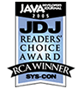
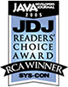
940

diff --git a/public/styles/styles.min.css b/public/styles/styles.min.css
@@ -1,1 +1,1 @@
-.ej-btn,.ej-btn:hover{color:#fff}@font-face{font-family:proxima_nova_semibold;src:url(../fonts/proximanova-sbold-webfont.eot);src:url(../fonts/proximanova-sbold-webfont.eot?#iefix) format("embedded-opentype"),url(../fonts/proximanova-sbold-webfont.woff2) format("woff2"),url(../fonts/proximanova-sbold-webfont.woff) format("woff"),url(../fonts/proximanova-sbold-webfont.ttf) format("truetype"),url(../fonts/proximanova-sbold-webfont.svg#proxima_novasemibold) format("svg");font-weight:400;font-style:normal;font-variant:normal}@font-face{font-family:icomoon;src:url(../fonts/icomoon.eot?4pjks7);src:url(../fonts/icomoon.eot?#iefix4pjks7) format("embedded-opentype"),url(../fonts/icomoon.ttf?4pjks7) format("truetype"),url(../fonts/icomoon.woff?4pjks7) format("woff"),url(../fonts/icomoon.svg?4pjks7#icomoon) format("svg");font-weight:400;font-style:normal}[class*=" icon-"],[class^=icon-]{font-family:icomoon;speak:none;font-style:normal;font-weight:400;font-variant:normal;text-transform:none;line-height:1;-webkit-font-smoothing:antialiased;-moz-osx-font-smoothing:grayscale}.ej-btn,.ej-link,.footer-menu a{font-family:proxima_nova_semibold}.icon-download:before{content:"\e600"}.icon-see_more:before{content:"\e601"}.site-padding{padding:45px 0}.site-padding-top{padding-top:45px}.site-padding-bottom{padding-bottom:45px}.ej-btn{text-transform:uppercase;display:inline-block;border-radius:25px;padding:0 17px;line-height:31px;font-size:13px}.ej-btn.btn-primary{background-color:#0993e2}.ej-btn.btn-primary:hover{background-color:#085c8c}.ej-link{text-transform:uppercase;font-size:12px}.ej-link.link-1{color:#0993e2}.ej-link.link-1:hover{color:#097abb}.show-m,.show-s,.show-xl,.show-xs{display:none}@media (min-width:1200px){.hide-xl{display:none!important}.show-xl{display:block}}@media (min-width:993px) and (max-width:1200px){.hide-m{display:none!important}.show-m{display:block}}@media (min-width:768px) and (max-width:992px){.hide-s{display:none!important}.show-s{display:block}}@media (max-width:767px){.hide-xs{display:none!important}.show-xs{display:block}}.navigation{height:79px;background-color:#fff}.navigation .logo{float:left;margin-top:24px}.navigation .main-navigation{float:right;margin:0}.navigation .menu-toggler{float:right;height:79px;line-height:79px}.main-navigation>li{float:left;position:relative}.main-navigation>li>a,.main-navigation>li>span{display:block;padding:0 17px;color:#303030;font-size:13px;border-top:6px solid #fff;font-family:proxima_nova_semibold;height:79px;line-height:73px;text-transform:uppercase;cursor:pointer}.main-navigation>li>a .fa,.main-navigation>li>span .fa{font-size:12px}.main-navigation>li>a .fa-caret-up,.main-navigation>li>span .fa-caret-up{display:inline-block}.main-navigation>li>a .fa-caret-down,.main-navigation>li>a.collapsed .fa-caret-up,.main-navigation>li>span .fa-caret-down,.main-navigation>li>span.collapsed .fa-caret-up{display:none}.main-navigation>li>a.collapsed .fa-caret-down,.main-navigation>li>span.collapsed .fa-caret-down{display:inline-block}.main-navigation>li>a:hover,.main-navigation>li>span:hover{color:#0993e2}.main-navigation>li.active a{border-top-color:#0993e2;color:#0993e2}.main-navigation .sub-menu{background-color:#fff;position:absolute;width:100%;left:0;top:79px;z-index:10}.main-navigation .sub-menu li a{display:block;padding:0 17px;color:#303030;font-size:13px;cursor:pointer;height:38px;line-height:38px}.main-navigation .sub-menu li a:hover{background-color:#0993e2;color:#fff}.menu-toggler{cursor:pointer;font-size:25px;color:#0993e2;background:0 0;border:none}.menu-toggler:hover{color:#097abb}.nav-mobile .nav-mobile-header{height:79px;margin-bottom:35px}.nav-mobile .nav-mobile-header .logo{margin-top:24px;float:left}.nav-mobile .nav-mobile-header .back{height:79px;line-height:79px;float:right;color:#fff;cursor:pointer;font-size:23px}.nav-mobile .nav-mobile-menu{margin:0;text-align:center}.nav-mobile .nav-mobile-menu>li>a,.nav-mobile .nav-mobile-menu>li>span{display:block;font-size:17px;color:#fff;text-transform:uppercase;line-height:55px;cursor:pointer}.nav-mobile .nav-mobile-menu>li>a .fa-caret-up,.nav-mobile .nav-mobile-menu>li>span .fa-caret-up{display:inline-block}.nav-mobile .nav-mobile-menu>li>a .fa-caret-down,.nav-mobile .nav-mobile-menu>li>a.collapsed .fa-caret-up,.nav-mobile .nav-mobile-menu>li>span .fa-caret-down,.nav-mobile .nav-mobile-menu>li>span.collapsed .fa-caret-up{display:none}.nav-mobile .nav-mobile-menu>li>a.collapsed .fa-caret-down,.nav-mobile .nav-mobile-menu>li>span.collapsed .fa-caret-down{display:inline-block}.nav-mobile .sub-menu li a{display:block;font-size:17px;color:#fff;line-height:55px;cursor:pointer;text-transform:none}.footer-menu a,.header h4,.site-subtitle,.site-title,.site-title-line{text-transform:uppercase}.modal-menu .modal-dialog{width:100%;margin:0}.modal-backdrop{background-color:#0993e2}.modal-backdrop.in{opacity:.95}.sub-nav{margin:0}.sub-nav li{float:left;margin:0 5px}.sub-nav li:first-of-type{margin-left:0}.sub-nav li:last-of-type{margin-right:0}.sub-nav li.active a{background-color:#085c8c}#footer{height:107px}.footer{background-color:#eef3f5;font-size:11px;color:#9ba4a8;overflow:hidden}.footer .top{padding:20px 0;border-bottom:1px solid #e3e8ea}.footer .top .logo{float:left}@media (max-width:767px){#footer{height:250px}.footer .top .logo{float:none;padding-bottom:20px;margin-bottom:20px;border-bottom:1px solid #e3e8ea;text-align:center}.footer .top .logo a{margin:0 auto}}.footer .top .footer-menu{float:right}.footer .bottom{padding:11px 0;line-height:18px}@media (max-width:767px){.footer .top .footer-menu{float:none;text-align:center}.footer .bottom{padding:20px 0}}.footer .bottom .copy{float:left}@media (max-width:767px){.footer .bottom .copy{float:none;padding-bottom:20px;margin-bottom:20px;border-bottom:1px solid #e3e8ea;text-align:center}}.footer .bottom .designed-by{float:right}@media (max-width:767px){.footer .bottom .designed-by{float:none;width:175px;margin:0 auto}}.footer .bottom .designed-by span{float:left;margin-right:10px}.footer .bottom .designed-by .logo{float:left}.footer-menu>*{line-height:25px;display:inline-block}.footer-menu a{color:#0993e2}.footer-menu a:hover{color:#097abb}.footer-menu span{color:#c7c8c9;margin:0 15px}@media (min-width:768px) and (max-width:992px),(max-width:767px){.sidebar{margin-bottom:45px}}.sidebar .widget{margin-bottom:23px}.sidebar .widget:last-of-type{margin-bottom:0}.sidebar.inner .site-title{background:url(../images/sep-5.png) 0 100% no-repeat;padding-bottom:18px;margin-bottom:19px}.sidebar.inner .site-title .fa{color:#9ba4a8;font-size:16px;margin-right:4px}.sidebar.inner .site-title span{display:inline;float:none}.widget{border-bottom:1px solid #e5e5e5;padding:14px 0}.widget.award{border:1px solid #e5e5e5;padding:14px 10px}.widget.award .img-wrapper{width:75px;text-align:center;float:left;margin-right:15px}.widget.award .text h6{font-family:Lucida Grande,Lucida Sans Unicode,Lucida Sans,Geneva,Verdana,sans-serif;font-weight:700;color:#303030;margin-bottom:15px}.widget.versions{padding-top:0}.widget.versions .version-item{margin-bottom:27px}.widget.versions .version-item:last-of-type{padding-bottom:0;border-bottom:none;margin-bottom:0}.home-header{background:url(../images/bg-header-home.png) repeat-x;height:556px}.home-header .header-product{height:556px;padding-top:95px;position:relative}.home-header .header-product .meta{position:absolute;width:100%;left:0;bottom:45px}.version{background:url(../images/bg-version.png) no-repeat;width:43px;height:42px;line-height:37px;padding-left:3px;color:#fff;text-align:center;font-size:14px;display:inline-block}.header-product{text-align:center}.header-product .img-wrapper{margin-bottom:25px;position:relative}.header-product .img-wrapper .version{position:absolute;margin-right:-75px;right:50%}.header-product h4{font-size:23px;color:#fff;background:url(../images/sep-1.png) 50% 100% no-repeat;padding-bottom:10px;margin-bottom:15px}.header-product p{font-size:15px;line-height:22px;color:#fff;margin:0}@media (min-width:768px) and (max-width:992px){.header-product p br{display:none}}.header-product .meta{font-family:proxima_nova_semibold;background:url(../images/sep-2.png) 50% 50% no-repeat;min-height:76px;margin:45px 0 0}.header-product .meta li{float:left;width:50%}.header-product .meta li a{font-size:11px;text-transform:uppercase;color:#fff;padding-top:20px;line-height:normal;height:105px;width:105px;text-align:center;display:inline-block;border:3px solid transparent;background-color:transparent;border-radius:100%}@media (min-width:768px) and (max-width:992px){.header-product .meta li a{padding-top:15px;height:85px;width:85px}}.header-product .meta li a span{display:block;font-size:30px}.header-product .meta li a:hover{height:105px;width:105px;text-align:center;display:inline-block;border:3px solid #84c7ff;background-color:#fff;border-radius:100%;color:#23cf3b}.news-wrapper .title h6,body{color:#303030;font-family:Lucida Grande,Lucida Sans Unicode,Lucida Sans,Geneva,Verdana,sans-serif}@media (min-width:768px) and (max-width:992px){.header-product .meta li a:hover{height:85px;width:85px}}.news-wrapper{padding-bottom:45px}.news-wrapper .title{line-height:normal;margin-bottom:20px}.news-wrapper .title h6{font-weight:700;margin:0}.news-wrapper p{margin:0}.news-wrapper .ej-link{display:block;margin-top:25px}.products-home-slider .owl-controls{position:absolute;width:100%;left:0;top:240px;margin:0}.products-home-slider .owl-controls .owl-buttons>div{width:54px;height:51px;margin:0;background:0 0;padding:0;border-radius:0;opacity:.2}.products-home-slider .owl-controls .owl-buttons>div:hover{opacity:.4!important}.products-home-slider .owl-controls .owl-buttons>div.owl-prev{background:url(../images/arrow-left.png) no-repeat;float:left;margin-left:-15px}.products-home-slider .owl-controls .owl-buttons>div.owl-next{background:url(../images/arrow-right.png) no-repeat;float:right;margin-right:-15px}.news-slider .owl-controls{margin-bottom:45px}.owl-controls .owl-pagination .owl-page span{margin:0 6px;height:13px;width:13px;border:1px solid #bbb;background-color:#fff}.owl-controls .owl-pagination .owl-page.active span{border-color:#0993e2;background-color:#0993e2}body{font-size:12px;line-height:18px}body,html{height:100%}h1,h2,h3,h4,h5,h6{font-family:proxima_nova_semibold;margin-top:0;line-height:normal}.detail h6,.version-item .text-wrapper h6{font-family:Lucida Grande,Lucida Sans Unicode,Lucida Sans,Geneva,Verdana,sans-serif;font-weight:700}a{color:#0993e2}a:active,a:focus,a:hover,a:link a:visited{outline:0;text-decoration:none}a:hover{color:#097abb}.page-wrap{min-height:100%;margin-bottom:-107px}.page-wrap:after{content:"";display:block;height:107px}@media (max-width:767px){.news-wrapper{padding-bottom:0}.page-wrap{margin-bottom:-250px}.page-wrap:after{height:250px}}.logo{margin:0}.logo a{background:url(../images/logo.png) no-repeat;display:block;text-indent:-9999px;width:188px;height:31px}.logo.gray a{background:url(../images/logo-gray.png) no-repeat;width:158px;height:25px}.logo.xubliminal a{background:url(../images/logo-xub.png) no-repeat;width:97px;height:18px}.logo.white a{background:url(../images/logo-white.png) no-repeat}.header{background-color:#0993e2;padding:24px 0}.header h4{margin:0;font-size:17px;color:#fff;line-height:31px;float:left}.header .sub-nav{float:right}.content{padding:45px 0;font-size:13px;line-height:21px}.site-title{background:url(../images/sep-3.png) 0 50% repeat-x;margin-bottom:35px;overflow:hidden}.site-title span{background-color:#fff;display:block;height:100%;padding-right:18px;float:left}.site-title-line{background:url(../images/sep-4.png) 0 100% no-repeat;padding-bottom:20px}.content-section{border-bottom:1px solid #f0f0f0;padding-bottom:30px;margin-bottom:30px}.content-section:last-of-type{padding-bottom:0;border-bottom:none;margin-bottom:0}.content-section .site-title-line{margin-bottom:30px}.content-section .site-subtitle{margin-bottom:20px}.content-section p{margin:0}.site-subtitle{color:#0993e2}.double-items .item{float:left;width:50%}.detail{line-height:normal;margin-bottom:35px;position:relative}.detail:last-of-type{padding-bottom:0;border-bottom:none;margin-bottom:0}.detail>*{margin:0}.detail .ej-icon{height:32px;width:32px;text-align:center;display:inline-block;background-color:#eef3f5;border-radius:100%;color:#9ba4a8;line-height:32px;position:absolute;top:0;left:0}.detail .ej-icon .fa{font-size:16px;vertical-align:middle}.detail a{text-decoration:underline}.detail h6{color:#303030;font-size:13px;margin-bottom:8px}.detail p{font-size:13px;line-height:19px}.detail.has-icon{padding-left:45px}.detail.has-icon h6{margin-bottom:4px}.date{color:#898989;font-size:11px}.version-item{position:relative;line-height:18px;min-height:48px}.version-item:last-of-type .text-wrapper{padding-bottom:0;border-bottom:none;margin-bottom:0}.version-item .img-wrapper{width:48px;text-align:center;position:absolute;top:0;left:0}.version-item .text-wrapper{margin-left:65px;border-bottom:1px solid #e5e5e5;padding-bottom:14px;color:#e5e5e5}.version-item .text-wrapper>.date{display:block}.version-item .text-wrapper h6{color:#303030;margin:0}.version-item .text-wrapper a{color:#23cf3b;font-size:12px}.version-item .text-wrapper a:hover{color:#1fb434}
+.ej-btn,.ej-btn:hover{color:#fff}@font-face{font-family:proxima_nova_semibold;src:url(../fonts/proximanova-sbold-webfont.eot);src:url(../fonts/proximanova-sbold-webfont.eot?#iefix) format("embedded-opentype"),url(../fonts/proximanova-sbold-webfont.woff2) format("woff2"),url(../fonts/proximanova-sbold-webfont.woff) format("woff"),url(../fonts/proximanova-sbold-webfont.ttf) format("truetype"),url(../fonts/proximanova-sbold-webfont.svg#proxima_novasemibold) format("svg");font-weight:400;font-style:normal;font-variant:normal}@font-face{font-family:icomoon;src:url(../fonts/icomoon.eot?4pjks7);src:url(../fonts/icomoon.eot?#iefix4pjks7) format("embedded-opentype"),url(../fonts/icomoon.ttf?4pjks7) format("truetype"),url(../fonts/icomoon.woff?4pjks7) format("woff"),url(../fonts/icomoon.svg?4pjks7#icomoon) format("svg");font-weight:400;font-style:normal}[class*=" icon-"],[class^=icon-]{font-family:icomoon;speak:none;font-style:normal;font-weight:400;font-variant:normal;text-transform:none;line-height:1;-webkit-font-smoothing:antialiased;-moz-osx-font-smoothing:grayscale}.ej-btn,.ej-link,.footer-menu a{font-family:proxima_nova_semibold}.icon-download:before{content:"\e600"}.icon-see_more:before{content:"\e601"}.ej-btn{text-transform:uppercase;display:inline-block;border-radius:25px;padding:0 17px;line-height:31px;font-size:13px}.ej-btn.btn-primary{background-color:#0993e2}.ej-btn.btn-primary:hover{background-color:#085c8c}.ej-link{text-transform:uppercase;font-size:12px}.ej-link.link-1{color:#0993e2}.ej-link.link-1:hover{color:#097abb}.show-m,.show-s,.show-xl,.show-xs{display:none}@media (min-width:1200px){.hide-xl{display:none!important}.show-xl{display:block}}@media (min-width:993px) and (max-width:1200px){.hide-m{display:none!important}.show-m{display:block}}@media (min-width:768px) and (max-width:992px){.hide-s{display:none!important}.show-s{display:block}}@media (max-width:767px){.hide-xs{display:none!important}.show-xs{display:block}}.navigation{height:79px;background-color:#fff}.navigation .logo{float:left;margin-top:24px}.navigation .main-navigation{float:right;margin:0}.navigation .menu-toggler{float:right;height:79px;line-height:79px}.main-navigation>li{float:left;position:relative}.main-navigation>li>a,.main-navigation>li>span{display:block;padding:0 17px;color:#303030;font-size:13px;border-top:6px solid #fff;font-family:proxima_nova_semibold;height:79px;line-height:73px;text-transform:uppercase;cursor:pointer}.main-navigation>li>a .fa,.main-navigation>li>span .fa{font-size:12px}.main-navigation>li>a .fa-caret-up,.main-navigation>li>span .fa-caret-up{display:inline-block}.main-navigation>li>a .fa-caret-down,.main-navigation>li>a.collapsed .fa-caret-up,.main-navigation>li>span .fa-caret-down,.main-navigation>li>span.collapsed .fa-caret-up{display:none}.main-navigation>li>a.collapsed .fa-caret-down,.main-navigation>li>span.collapsed .fa-caret-down{display:inline-block}.main-navigation>li>a:hover,.main-navigation>li>span:hover{color:#0993e2}.main-navigation>li.active a{border-top-color:#0993e2;color:#0993e2}.main-navigation .sub-menu{background-color:#fff;position:absolute;width:100%;left:0;top:79px;z-index:10}.main-navigation .sub-menu li a{display:block;padding:0 17px;color:#303030;font-size:13px;cursor:pointer;height:38px;line-height:38px}.main-navigation .sub-menu li a:hover{background-color:#0993e2;color:#fff}.menu-toggler{cursor:pointer;font-size:25px;color:#0993e2;background:0 0;border:none}.menu-toggler:hover{color:#097abb}.nav-mobile .nav-mobile-header{height:79px;margin-bottom:35px}.nav-mobile .nav-mobile-header .logo{margin-top:24px;float:left}.nav-mobile .nav-mobile-header .back{height:79px;line-height:79px;float:right;color:#fff;cursor:pointer;font-size:23px}.nav-mobile .nav-mobile-menu{margin:0;text-align:center}.nav-mobile .nav-mobile-menu>li>a,.nav-mobile .nav-mobile-menu>li>span{display:block;font-size:17px;color:#fff;text-transform:uppercase;line-height:55px;cursor:pointer}.nav-mobile .nav-mobile-menu>li>a .fa-caret-up,.nav-mobile .nav-mobile-menu>li>span .fa-caret-up{display:inline-block}.nav-mobile .nav-mobile-menu>li>a .fa-caret-down,.nav-mobile .nav-mobile-menu>li>a.collapsed .fa-caret-up,.nav-mobile .nav-mobile-menu>li>span .fa-caret-down,.nav-mobile .nav-mobile-menu>li>span.collapsed .fa-caret-up{display:none}.nav-mobile .nav-mobile-menu>li>a.collapsed .fa-caret-down,.nav-mobile .nav-mobile-menu>li>span.collapsed .fa-caret-down{display:inline-block}.nav-mobile .sub-menu li a{display:block;font-size:17px;color:#fff;line-height:55px;cursor:pointer;text-transform:none}.footer-menu a,.header h4,.site-subtitle,.site-title,.site-title-line{text-transform:uppercase}.modal-menu .modal-dialog{width:100%;margin:0}.modal-backdrop{background-color:#0993e2}.modal-backdrop.in{opacity:.95}.sub-nav{margin:0}.sub-nav li{float:left;margin:0 5px}.sub-nav li:first-of-type{margin-left:0}.sub-nav li:last-of-type{margin-right:0}.sub-nav li.active a{background-color:#085c8c}#footer{height:107px}.footer{background-color:#eef3f5;font-size:11px;color:#9ba4a8;overflow:hidden}.footer .top{padding:20px 0;border-bottom:1px solid #e3e8ea}.footer .top .logo{float:left}@media (max-width:767px){#footer{height:250px}.footer .top .logo{float:none;padding-bottom:20px;margin-bottom:20px;border-bottom:1px solid #e3e8ea;text-align:center}.footer .top .logo a{margin:0 auto}}.footer .top .footer-menu{float:right}.footer .bottom{padding:11px 0;line-height:18px}@media (max-width:767px){.footer .top .footer-menu{float:none;text-align:center}.footer .bottom{padding:20px 0}}.footer .bottom .copy{float:left}@media (max-width:767px){.footer .bottom .copy{float:none;padding-bottom:20px;margin-bottom:20px;border-bottom:1px solid #e3e8ea;text-align:center}}.footer .bottom .designed-by{float:right}@media (max-width:767px){.footer .bottom .designed-by{float:none;width:175px;margin:0 auto}}.footer .bottom .designed-by span{float:left;margin-right:10px}.footer .bottom .designed-by .logo{float:left}.footer-menu>*{line-height:25px;display:inline-block}.footer-menu a{color:#0993e2}.footer-menu a:hover{color:#097abb}.footer-menu span{color:#c7c8c9;margin:0 15px}@media (min-width:768px) and (max-width:992px),(max-width:767px){.sidebar{margin-bottom:45px}}.sidebar .widget{margin-bottom:23px}.sidebar .widget:last-of-type{margin-bottom:0}.sidebar.inner .site-title{background:url(../images/sep-5.png) 0 100% no-repeat;padding-bottom:18px;margin-bottom:19px}.sidebar.inner .site-title .fa{color:#9ba4a8;font-size:16px;margin-right:4px}.sidebar.inner .site-title span{display:inline;float:none}.widget{border-bottom:1px solid #e5e5e5;padding:14px 0}.widget.award{border:1px solid #e5e5e5;padding:14px 10px;overflow:hidden}.widget.award .img-wrapper{width:68px;text-align:center;float:left;margin-right:20px}@media (min-width:993px) and (max-width:1200px){.widget.award .img-wrapper{margin-right:10px}}.widget.award .img-wrapper>img{max-width:100%}.widget.award .text{float:left;width:calc(100% - 88px)}.widget.award .text h6{font-family:Lucida Grande,Lucida Sans Unicode,Lucida Sans,Geneva,Verdana,sans-serif;font-weight:700;color:#303030;margin-bottom:15px}.widget.award .text p{line-height:normal}.widget.versions{padding-top:0}.widget.versions .version-item{margin-bottom:27px}.widget.versions .version-item:last-of-type{padding-bottom:0;border-bottom:none;margin-bottom:0}.home-header{background:url(../images/bg-header-home.png) repeat-x;height:556px}.home-header .header-product{height:556px;padding-top:95px;position:relative}.home-header .header-product .meta{position:absolute;width:100%;left:0;bottom:45px}.version{background:url(../images/bg-version.png) no-repeat;width:43px;height:42px;line-height:37px;padding-left:3px;color:#fff;text-align:center;font-size:14px;display:inline-block}.header-product{text-align:center}.header-product .img-wrapper{margin-bottom:25px;position:relative}.header-product .img-wrapper .version{position:absolute;margin-right:-75px;right:50%}.header-product h4{font-size:23px;color:#fff;background:url(../images/sep-1.png) 50% 100% no-repeat;padding-bottom:10px;margin-bottom:15px}.header-product p{font-size:15px;line-height:22px;color:#fff;margin:0}@media (min-width:768px) and (max-width:992px){.header-product p br{display:none}}.header-product .meta{font-family:proxima_nova_semibold;background:url(../images/sep-2.png) 50% 50% no-repeat;min-height:76px;margin:45px 0 0}.header-product .meta li{float:left;width:50%}.header-product .meta li a{font-size:11px;text-transform:uppercase;color:#fff;padding-top:20px;line-height:normal;height:105px;width:105px;text-align:center;display:inline-block;border:3px solid transparent;background-color:transparent;border-radius:100%}@media (min-width:768px) and (max-width:992px){.header-product .meta li a{padding-top:15px;height:85px;width:85px}}.header-product .meta li a span{display:block;font-size:30px}.header-product .meta li a:hover{height:105px;width:105px;text-align:center;display:inline-block;border:3px solid #84c7ff;background-color:#fff;border-radius:100%;color:#23cf3b}.news-wrapper .title h6,body{color:#303030;font-family:Lucida Grande,Lucida Sans Unicode,Lucida Sans,Geneva,Verdana,sans-serif}@media (min-width:768px) and (max-width:992px){.header-product .meta li a:hover{height:85px;width:85px}}.news-wrapper{padding-bottom:45px}.news-wrapper .title{line-height:normal;margin-bottom:20px}.news-wrapper .title h6{font-weight:700;margin:0}.news-wrapper p{margin:0}.news-wrapper .ej-link{display:block;margin-top:25px}.products-home-slider .owl-controls{position:absolute;width:100%;left:0;top:240px;margin:0}.products-home-slider .owl-controls .owl-buttons>div{width:54px;height:51px;margin:0;background:0 0;padding:0;border-radius:0;opacity:.2}.products-home-slider .owl-controls .owl-buttons>div:hover{opacity:.4!important}.products-home-slider .owl-controls .owl-buttons>div.owl-prev{background:url(../images/arrow-left.png) no-repeat;float:left;margin-left:-15px}.products-home-slider .owl-controls .owl-buttons>div.owl-next{background:url(../images/arrow-right.png) no-repeat;float:right;margin-right:-15px}.news-slider .owl-controls{margin-bottom:45px}.owl-controls .owl-pagination .owl-page span{margin:0 6px;height:13px;width:13px;border:1px solid #bbb;background-color:#fff}.owl-controls .owl-pagination .owl-page.active span{border-color:#0993e2;background-color:#0993e2}body{font-size:12px;line-height:18px}body,html{height:100%}h1,h2,h3,h4,h5,h6{font-family:proxima_nova_semibold;margin-top:0;line-height:normal}.detail h6,.version-item .text-wrapper h6{font-family:Lucida Grande,Lucida Sans Unicode,Lucida Sans,Geneva,Verdana,sans-serif;font-weight:700}a{color:#0993e2}a:active,a:focus,a:hover,a:link a:visited{outline:0;text-decoration:none}a:hover{color:#097abb}.page-wrap{min-height:100%;margin-bottom:-107px}.page-wrap:after{content:"";display:block;height:107px}@media (max-width:767px){.news-wrapper{padding-bottom:0}.page-wrap{margin-bottom:-250px}.page-wrap:after{height:250px}}.logo{margin:0}.logo a{background:url(../images/logo.png) no-repeat;display:block;text-indent:-9999px;width:188px;height:31px}.logo.gray a{background:url(../images/logo-gray.png) no-repeat;width:158px;height:25px}.logo.xubliminal a{background:url(../images/logo-xub.png) no-repeat;width:97px;height:18px}.logo.white a{background:url(../images/logo-white.png) no-repeat}.header{background-color:#0993e2;padding:24px 0}.header h4{margin:0;font-size:17px;color:#fff;line-height:31px;float:left}.header .sub-nav{float:right}.content{padding:45px 0;font-size:13px;line-height:21px}.site-title{background:url(../images/sep-3.png) 0 50% repeat-x;margin-bottom:35px;overflow:hidden}.site-title span{background-color:#fff;display:block;height:100%;padding-right:18px;float:left}.site-title-line{background:url(../images/sep-4.png) 0 100% no-repeat;padding-bottom:20px}.content-section{border-bottom:1px solid #f0f0f0;padding-bottom:30px;margin-bottom:30px}.content-section:last-of-type{padding-bottom:0;border-bottom:none;margin-bottom:0}.content-section .site-title-line{margin-bottom:30px}.content-section .site-subtitle{margin-bottom:20px}.content-section p{margin:0}.site-subtitle{color:#0993e2}.double-items .item{float:left;width:50%}.detail{line-height:normal;margin-bottom:35px;position:relative}.detail:last-of-type{padding-bottom:0;border-bottom:none;margin-bottom:0}.detail>*{margin:0}.detail .ej-icon{height:32px;width:32px;text-align:center;display:inline-block;background-color:#eef3f5;border-radius:100%;color:#9ba4a8;line-height:32px;position:absolute;top:0;left:0}.detail .ej-icon .fa{font-size:16px;vertical-align:middle}.detail a{text-decoration:underline}.detail h6{color:#303030;font-size:13px;margin-bottom:8px}.detail p{font-size:13px;line-height:19px}.detail.has-icon{padding-left:45px}.detail.has-icon h6{margin-bottom:4px}.date{color:#898989;font-size:11px}.version-item{line-height:18px;min-height:48px}.version-item:last-of-type .text-wrapper{padding-bottom:0;border-bottom:none;margin-bottom:0}.version-item .img-wrapper{width:48px;text-align:center;margin-right:17px;float:left}.version-item .text-wrapper{float:left;width:calc(100% - 65px);border-bottom:1px solid #e5e5e5;padding-bottom:14px;color:#e5e5e5}.version-item .text-wrapper>.date{display:block}.version-item .text-wrapper h6{color:#303030;margin:0}.version-item .text-wrapper a{color:#23cf3b;font-size:12px}.version-item .text-wrapper a:hover{color:#1fb434}.right-bordered{border-right:1px solid #e5e5e5}.left-bordered{border-left:1px solid #e5e5e5}.site-padding{padding:45px 0}.site-padding-top{padding-top:45px}.site-padding-right{padding-right:45px}.site-padding-bottom{padding-bottom:45px}.site-padding-left{padding-left:45px}@media (min-width:993px) and (max-width:1200px){.site-padding-right{padding-right:20px}.site-padding-left{padding-left:20px}}

diff --git a/public/styles/styles.css b/public/styles/styles.css
@@ -58,20 +58,6 @@ Mixins
 ***************************/
 /***************************
 ****************************
-Helper Classes
-****************************
-***************************/
-.site-padding {
-  padding: 45px 0; }
-
-.site-padding-top {
-  padding-top: 45px; }
-
-.site-padding-bottom {
-  padding-bottom: 45px; }
-
-/***************************
-****************************
 Links
 ****************************
 ***************************/
@@ -399,17 +385,28 @@ Sidebar Styles
   padding: 14px 0; }
   .widget.award {
     border: 1px solid #e5e5e5;
-    padding: 14px 10px; }
+    padding: 14px 10px;
+    overflow: hidden; }
     .widget.award .img-wrapper {
-      width: 75px;
+      width: 68px;
       text-align: center;
       float: left;
-      margin-right: 15px; }
-    .widget.award .text h6 {
-      font-family: Lucida Grande, Lucida Sans Unicode, Lucida Sans, Geneva, Verdana, sans-serif;
-      font-weight: bold;
-      color: #303030;
-      margin-bottom: 15px; }
+      margin-right: 20px; }
+      @media (min-width: 993px) and (max-width: 1200px) {
+        .widget.award .img-wrapper {
+          margin-right: 10px; } }
+      .widget.award .img-wrapper > img {
+        max-width: 100%; }
+    .widget.award .text {
+      float: left;
+      width: calc(100% - 88px); }
+      .widget.award .text h6 {
+        font-family: Lucida Grande, Lucida Sans Unicode, Lucida Sans, Geneva, Verdana, sans-serif;
+        font-weight: bold;
+        color: #303030;
+        margin-bottom: 15px; }
+      .widget.award .text p {
+        line-height: normal; }
   .widget.versions {
     padding-top: 0; }
     .widget.versions .version-item {
@@ -740,7 +737,6 @@ a:visited,
   font-size: 11px; }
 
 .version-item {
-  position: relative;
   line-height: 18px;
   min-height: 48px; }
   .version-item:last-of-type .text-wrapper {
@@ -750,11 +746,11 @@ a:visited,
   .version-item .img-wrapper {
     width: 48px;
     text-align: center;
-    position: absolute;
-    top: 0;
-    left: 0; }
+    margin-right: 17px;
+    float: left; }
   .version-item .text-wrapper {
-    margin-left: 65px;
+    float: left;
+    width: calc(100% - 65px);
     border-bottom: 1px solid #e5e5e5;
     padding-bottom: 14px;
     color: #e5e5e5; }
@@ -770,5 +766,37 @@ a:visited,
       font-size: 12px; }
       .version-item .text-wrapper a:hover {
         color: #1fb434; }
+
+/***************************
+****************************
+Helper Classes
+****************************
+***************************/
+.right-bordered {
+  border-right: 1px solid #e5e5e5; }
+
+.left-bordered {
+  border-left: 1px solid #e5e5e5; }
+
+.site-padding {
+  padding: 45px 0; }
+
+.site-padding-top {
+  padding-top: 45px; }
+
+.site-padding-right {
+  padding-right: 45px; }
+  @media (min-width: 993px) and (max-width: 1200px) {
+    .site-padding-right {
+      padding-right: 20px; } }
+
+.site-padding-bottom {
+  padding-bottom: 45px; }
+
+.site-padding-left {
+  padding-left: 45px; }
+  @media (min-width: 993px) and (max-width: 1200px) {
+    .site-padding-left {
+      padding-left: 20px; } }
 
 /*# sourceMappingURL=styles.css.map */

diff --git a/company-01.html b/company-01.html
@@ -66,8 +66,8 @@
   <section id="content-wrapper" class="content-wrapper">
     <div class="container">
       <div class="row">
-        <div class="col-xs-12 col-sm-12 col-md-9 col-lg-9">
-          <div class="content">
+        <div class="col-xs-12 col-sm-12 col-md-8 col-lg-8 right-bordered">
+          <div class="content site-padding-right">
             <div class="content-section">
               <h4 class="site-title-line">Company Profile</h4>
 
@@ -161,8 +161,8 @@
             </div>
           </div>
         </div>
-        <div class="col-xs-12 col-sm-12 col-md-3 col-lg-3">
-          <div class="content left-bordered">
+        <div class="col-xs-12 col-sm-12 col-md-4 col-lg-4">
+          <div class="content site-padding-left">
             <aside class="sidebar inner">
               <h5 class="site-title"><i class="fa fa-fw fa-code-fork"></i> <span>Latest Versions</span></h5>
 
@@ -205,7 +205,7 @@
                 <div class="text">
                   <h6>JProfiler</h6>
 
-                  <p>Best Java Profiling / Testing Tool</p>
+                  <p>Best Java Profiling / <br/> Testing Tool</p>
                 </div>
               </div>
 
@@ -216,7 +216,7 @@
                 <div class="text">
                   <h6>Install4J</h6>
 
-                  <p>Finalist for Best Java Installation Tool</p>
+                  <p>Finalist for Best Java <br/> Installation Tool</p>
                 </div>
               </div>
             </aside>

diff --git a/public/sass/styles.scss b/public/sass/styles.scss
@@ -236,7 +236,6 @@ a {
 }
 
 .version-item {
-  position: relative;
   line-height: 18px;
   min-height: 48px;
 
@@ -249,13 +248,13 @@ a {
   .img-wrapper {
     width: 48px;
     text-align: center;
-    position: absolute;
-    top: 0;
-    left: 0;
+    margin-right: 17px;
+    float: left;
   }
 
   .text-wrapper {
-    margin-left: 65px;
+    float: left;
+    width: calc(100% - 65px);
     border-bottom: 1px solid $sidebar-border;
     padding-bottom: 14px;
     color: $sidebar-border;
@@ -278,4 +277,38 @@ a {
       }
     }
   }
+}
+
+/***************************
+****************************
+Helper Classes
+****************************
+***************************/
+
+.right-bordered {
+  border-right: 1px solid $sidebar-border;
+}
+
+.left-bordered {
+  border-left: 1px solid $sidebar-border;
+}
+
+.site-padding {
+  @include site-padding;
+}
+
+.site-padding-top {
+  @include site-padding-top;
+}
+
+.site-padding-right {
+  @include site-padding-right;
+}
+
+.site-padding-bottom {
+  @include site-padding-bottom;
+}
+
+.site-padding-left {
+  @include site-padding-left;
 }

diff --git a/public/sass/includes/_helpers.scss b/public/sass/includes/_helpers.scss
@@ -63,30 +63,28 @@ Mixins
   padding-top: $side-padding;
 }
 
+@mixin site-padding-right {
+  padding-right: $side-padding;
+
+  @media #{$medium} {
+    padding-right: 20px;
+  }
+}
+
 @mixin site-padding-bottom {
   padding-bottom: $side-padding;
+}
+
+@mixin site-padding-left {
+  padding-left: $side-padding;
+
+  @media #{$medium} {
+    padding-left: 20px;
+  }
 }
 
 @mixin reset-last {
   padding-bottom: 0;
   border-bottom: none;
   margin-bottom: 0;
-}
-
-/***************************
-****************************
-Helper Classes
-****************************
-***************************/
-
-.site-padding {
-  @include site-padding;
-}
-
-.site-padding-top {
-  @include site-padding-top;
-}
-
-.site-padding-bottom {
-  @include site-padding-bottom;
 }

diff --git a/public/sass/includes/_sidebar.scss b/public/sass/includes/_sidebar.scss
@@ -44,18 +44,34 @@ Sidebar Styles
   &.award {
     border: 1px solid $sidebar-border;
     padding: 14px 10px;
+    overflow: hidden;
 
     .img-wrapper {
-      width: 75px;
+      width: 68px;
       text-align: center;
       float: left;
-      margin-right: 15px;
+      margin-right: 20px;
+
+      @media #{$medium} {
+        margin-right: 10px;
+      }
+
+      > img {
+        max-width: 100%;
+      }
     }
 
     .text {
+      float: left;
+      width: calc(100% - 88px);
+
       h6 {
         @include small-title;
         margin-bottom: 15px;
+      }
+
+      p {
+        line-height: normal;
       }
     }
   }

diff --git a/index.html b/index.html
@@ -357,7 +357,7 @@
               <div class="text">
                 <h6>JProfiler</h6>
 
-                <p>Best Java Profiling / Testing Tool</p>
+                <p>Best Java Profiling / <br/> Testing Tool</p>
               </div>
             </div>
 
@@ -368,7 +368,7 @@
               <div class="text">
                 <h6>Install4J</h6>
 
-                <p>Finalist for Best Java Installation Tool</p>
+                <p>Finalist for Best Java <br/> Installation Tool</p>
               </div>
             </div>
           </aside>
